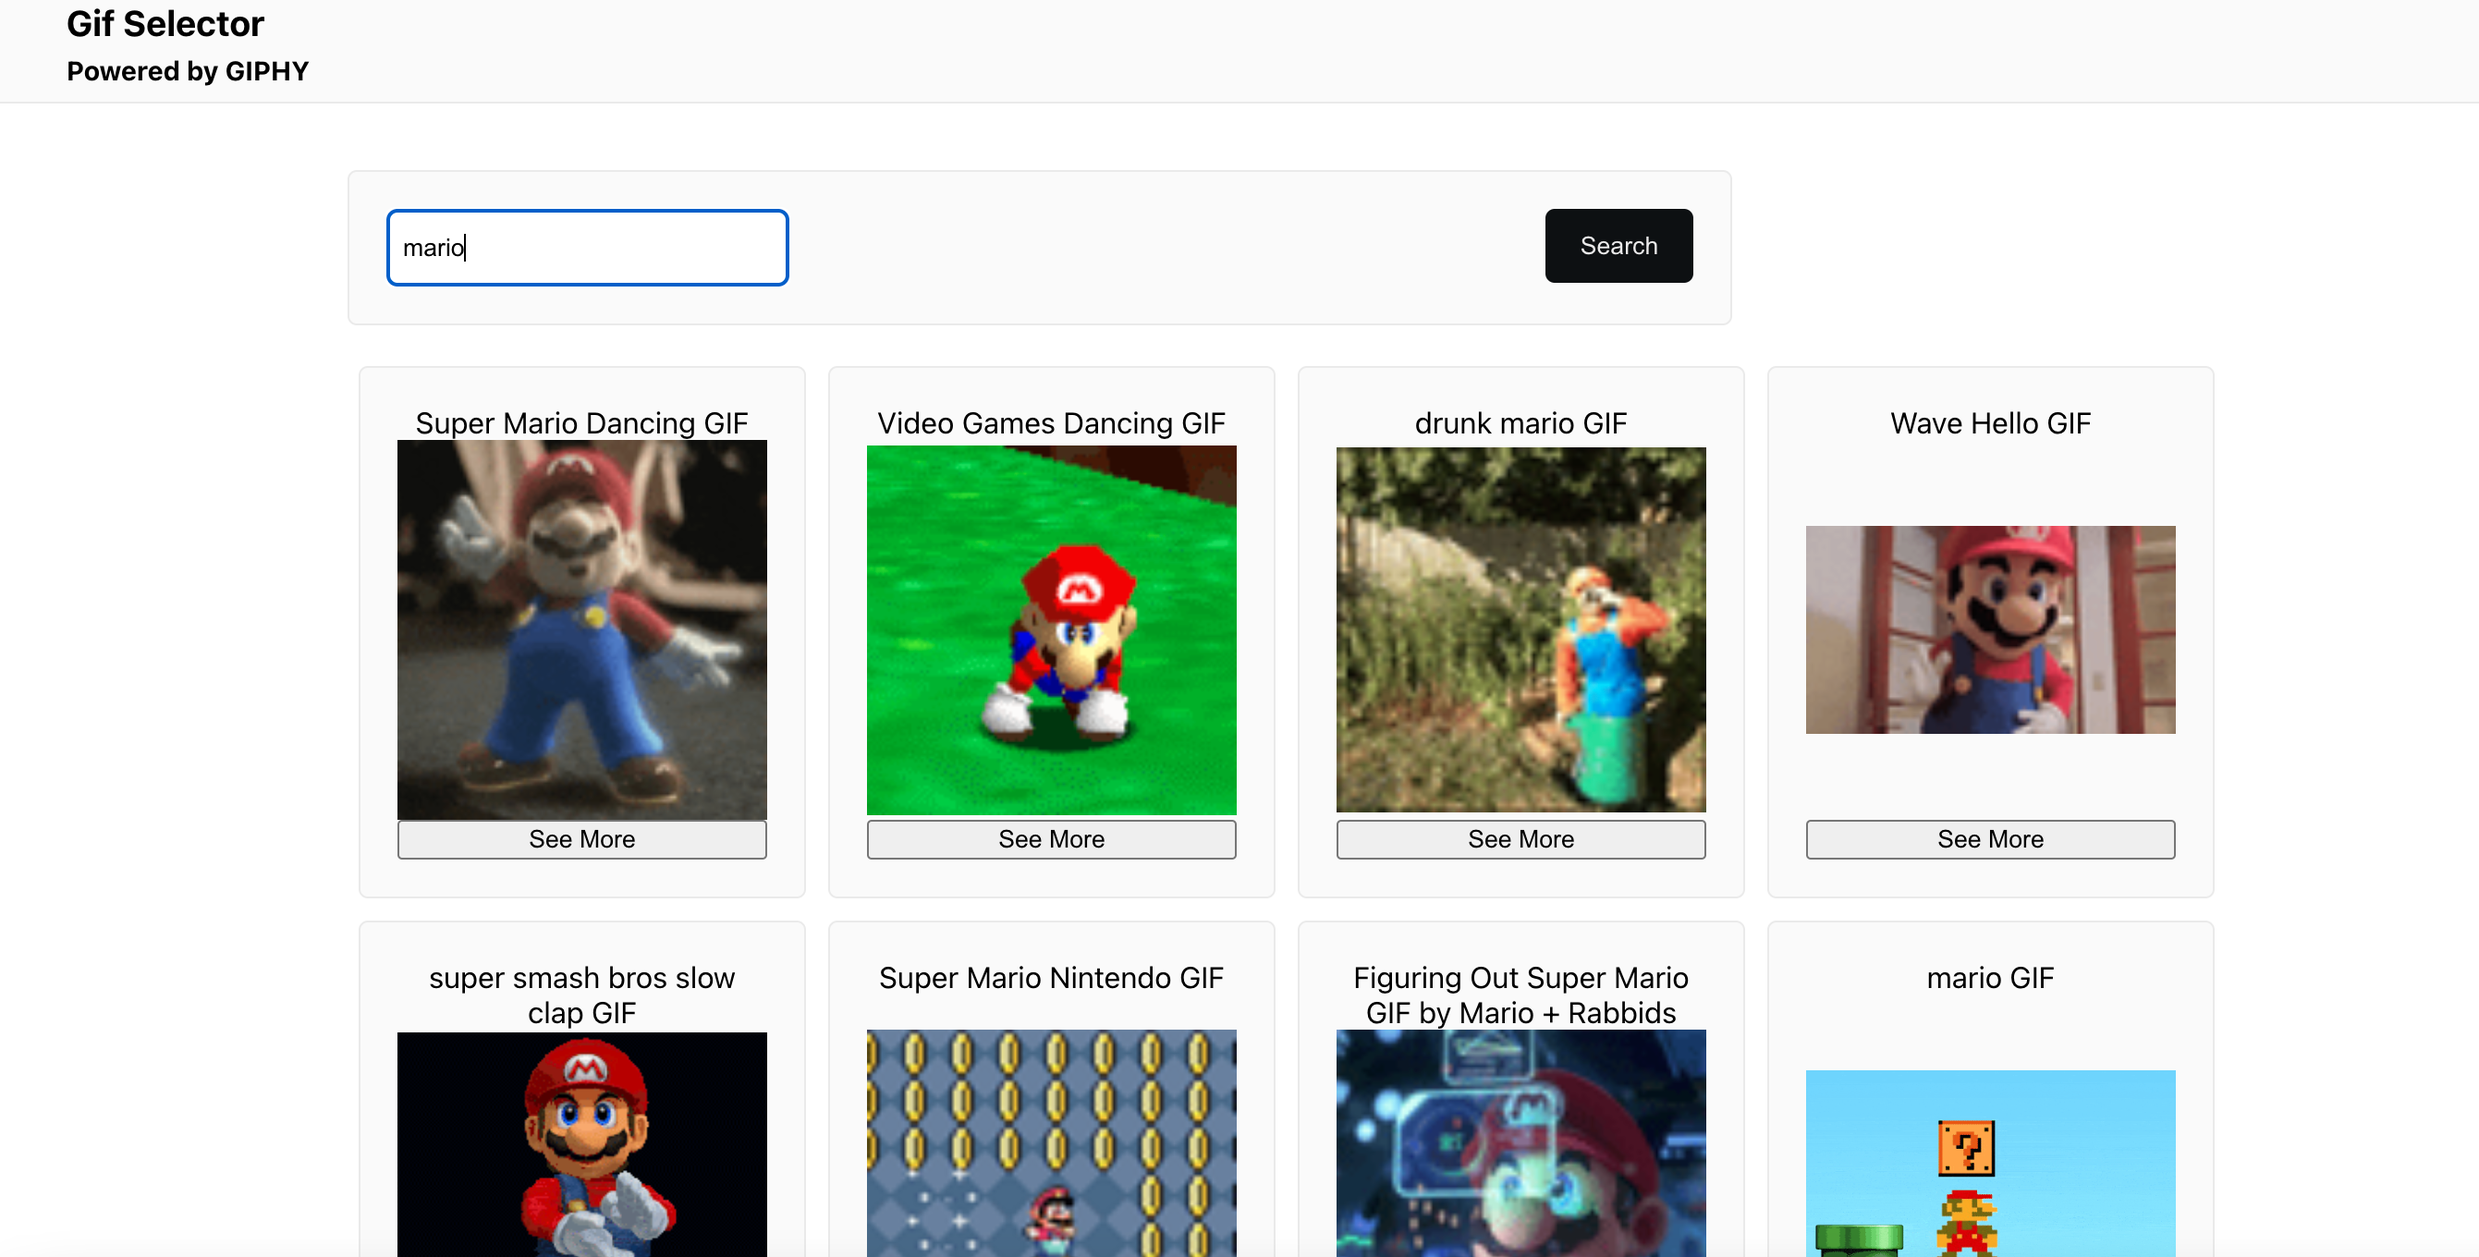
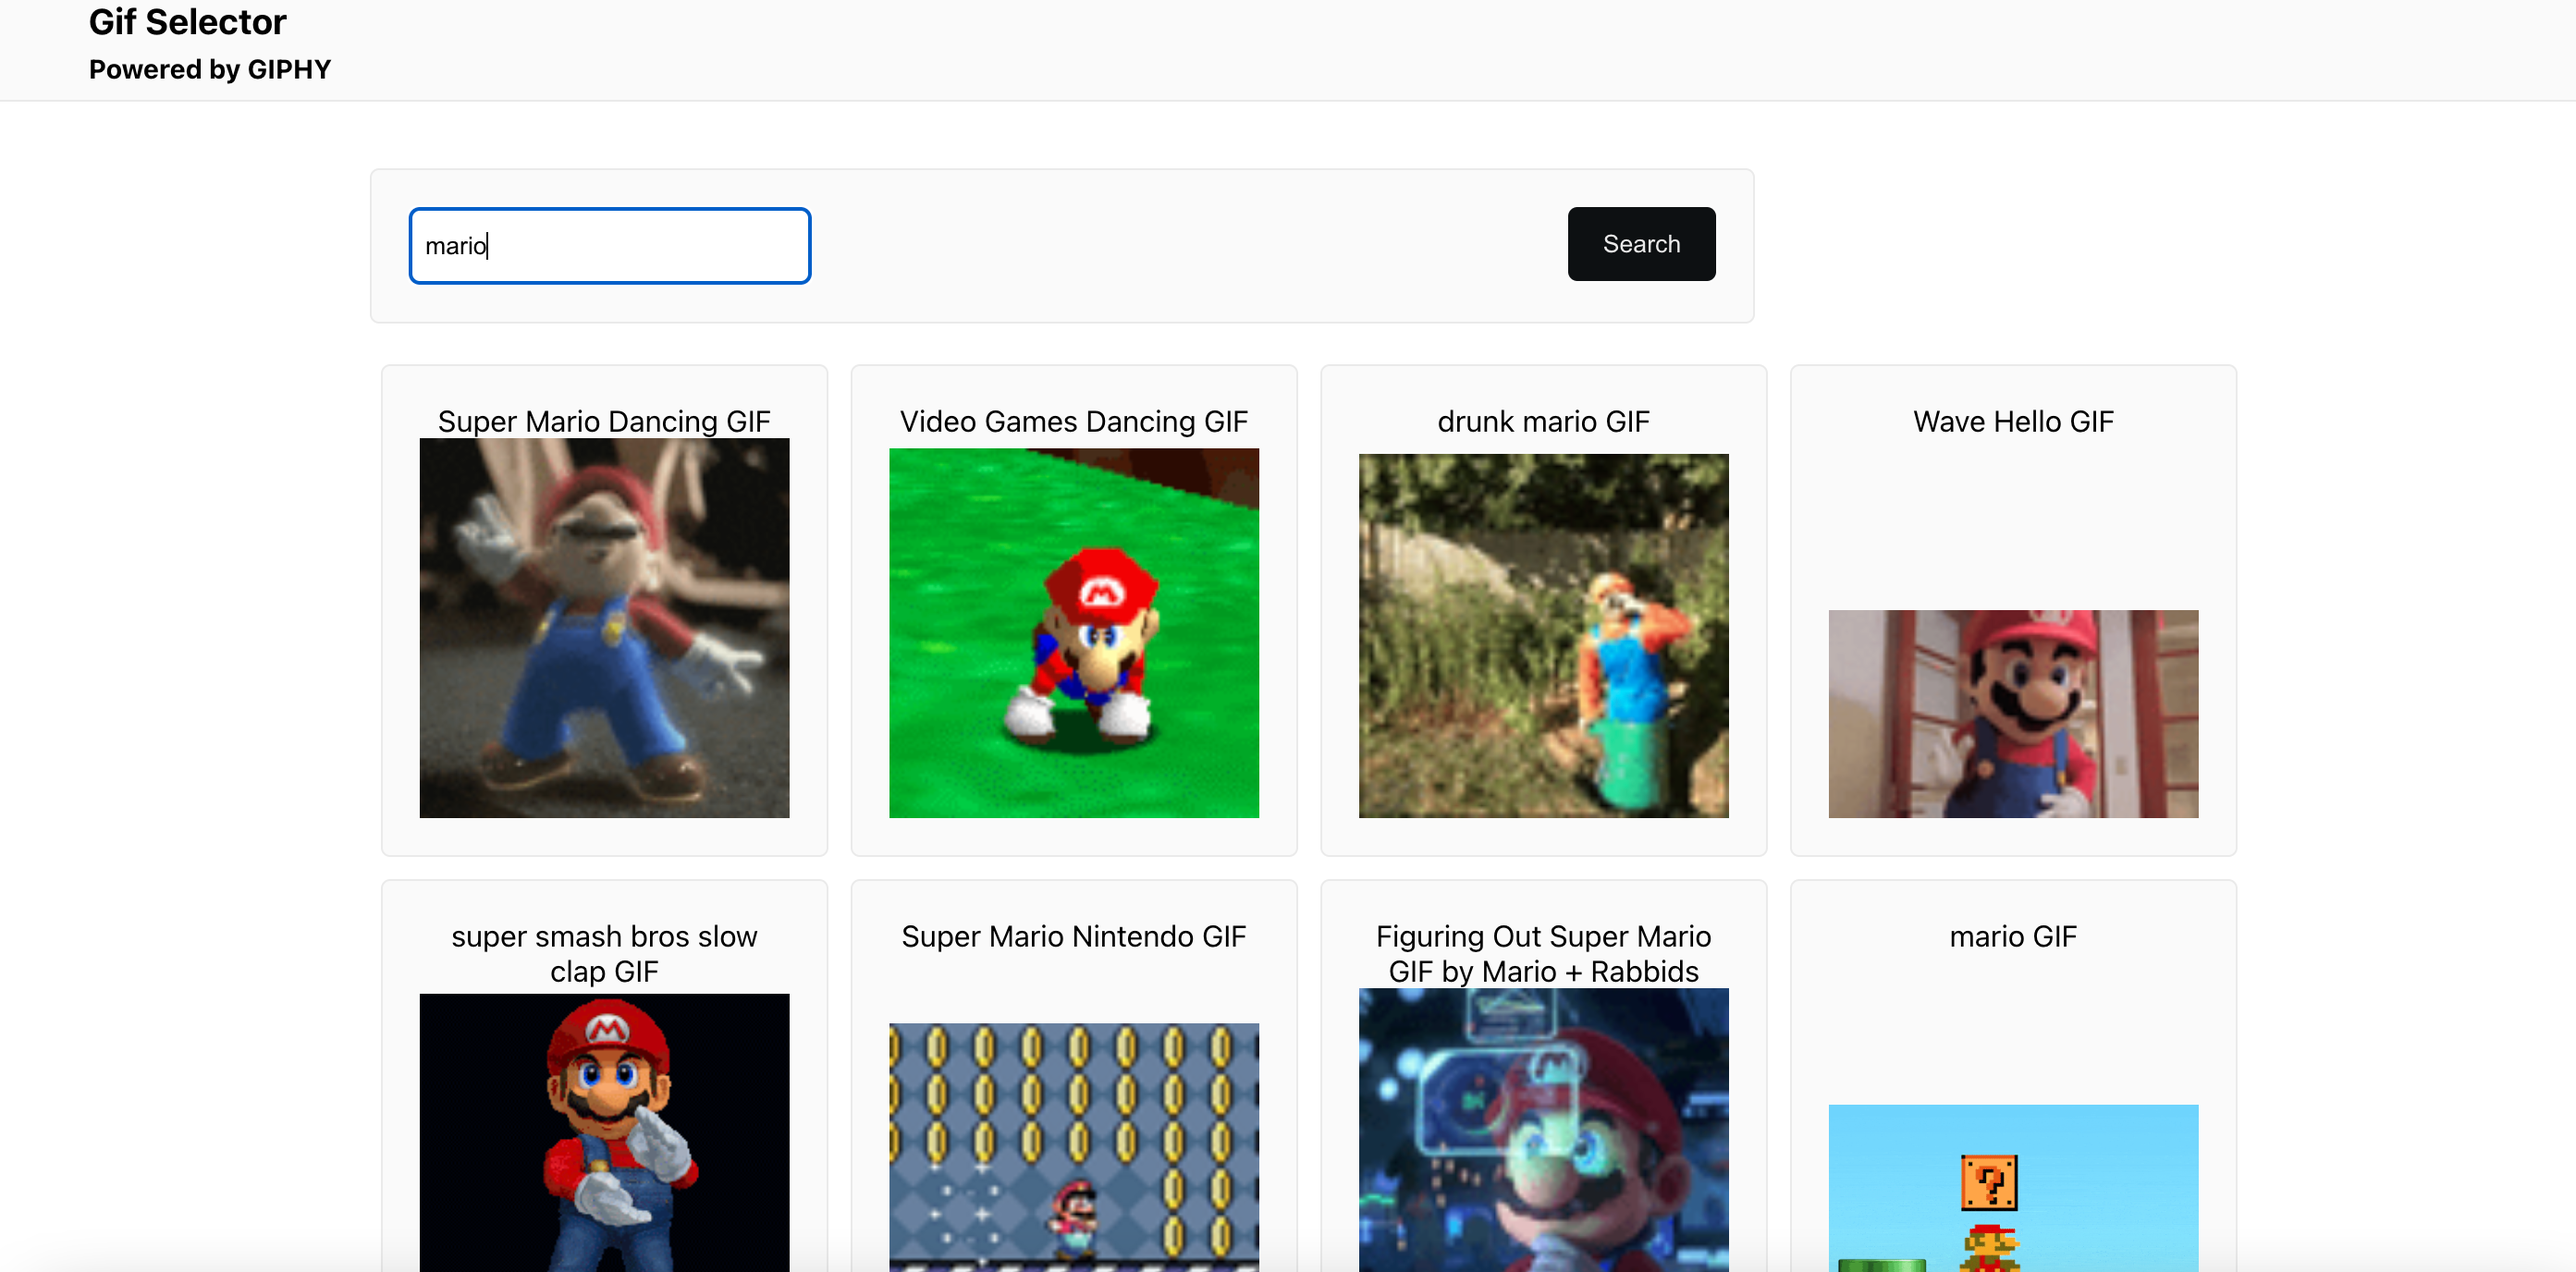
Remove button and update screenshots

diff --git a/src/Components/Item.tsx b/src/Components/Item.tsx
@@ -13,10 +13,9 @@ export default function Item({ item, setShow, setSelectedId }: ItemProps) {
     setSelectedId(item.id);
   };
   return (
-    <ItemCard>
+    <ItemCard onClick={handleClick}>
         <span> {item.title}</span>
         <img src={item.images.preview_gif.url} alt={item.title} />
-        <button onClick={handleClick}>See More</button>
     </ItemCard>
   );
 }

diff --git a/src/Styles/Card.ts b/src/Styles/Card.ts
@@ -29,6 +29,7 @@ export const ItemCard = styled.div`
   flex-direction: column;
   width: 100vh;
   margin: 6px;
+  cursor: pointer;
   @media only screen and (max-width: 600px) {
     padding: 10px;
     width: auto;
